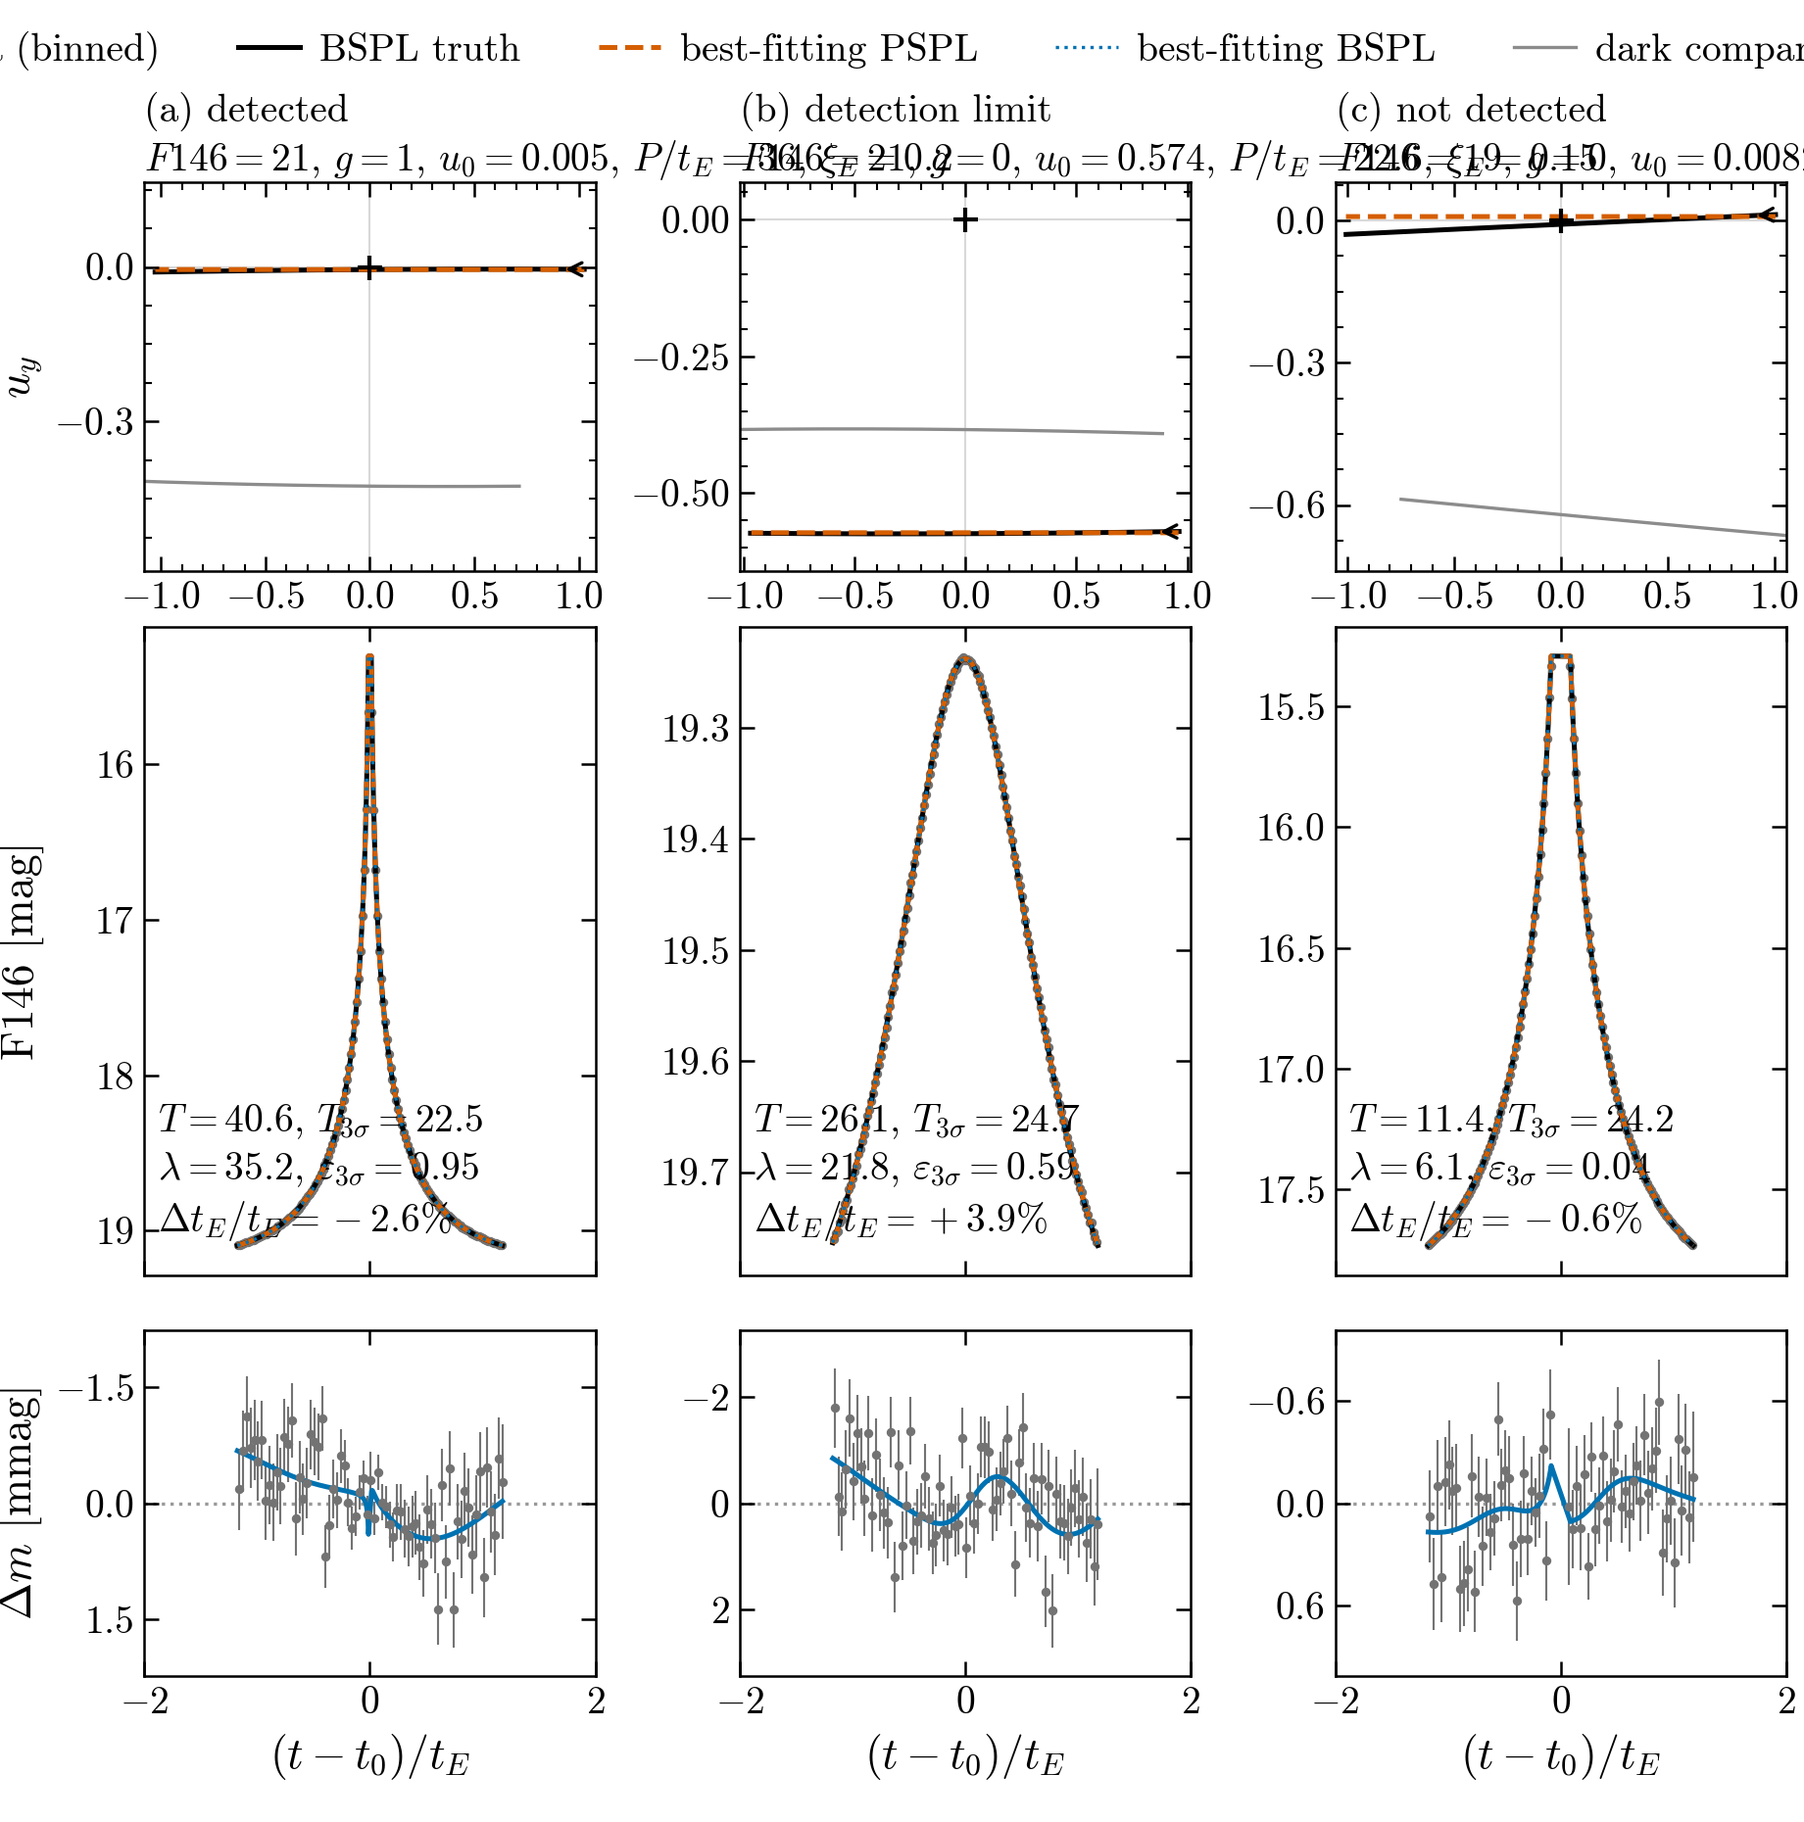
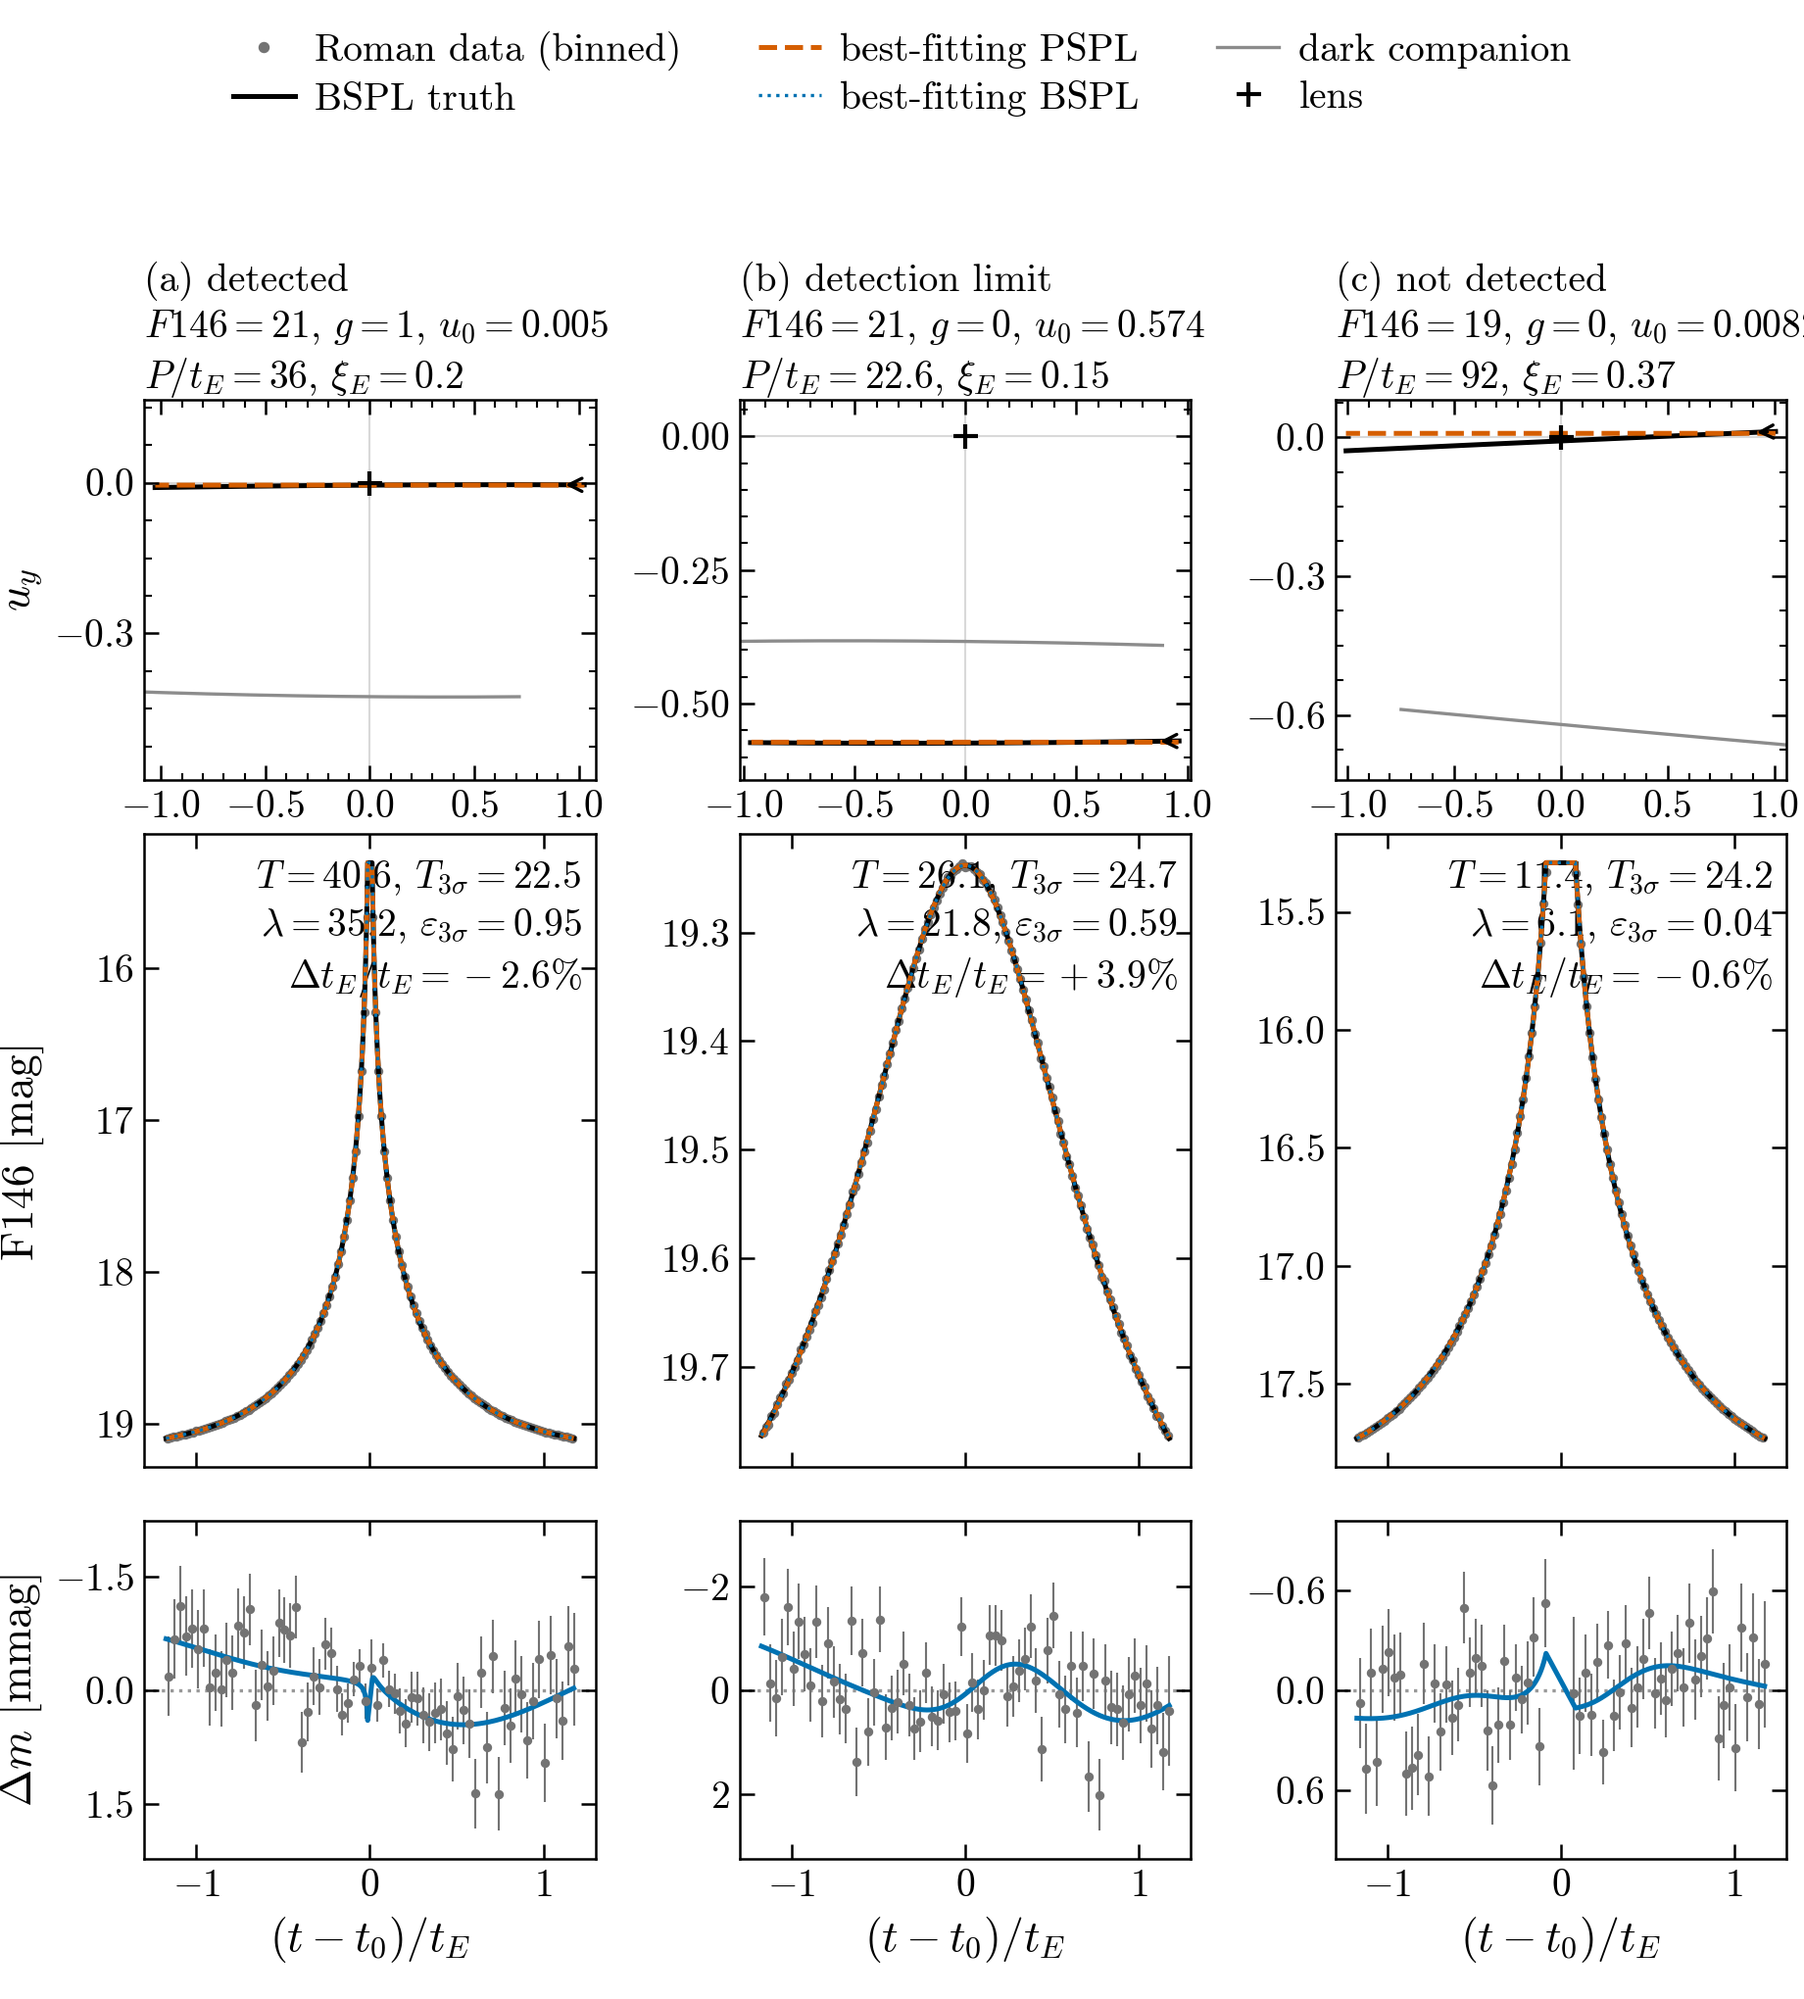
plot_sec6_lightcurve_examples: legend in two rows, parameters in the panel titles on separate lines, statistics in the upper right, time window of the Roman season (1.3 tE)

diff --git a/binary_source/plot_codes/plot_sec6_lightcurve_examples.py b/binary_source/plot_codes/plot_sec6_lightcurve_examples.py
@@ -177,8 +177,9 @@ def column(fig, gs_col, d, a, profile, cell, spec, kh1, status, letter, args):
     xiE = xi_E(cell["P_days"], spec)
     axT.set_title(rf"({letter}) {status}" "\n"
                   rf"$F146={cell['F146']:g}$, $g={cell['blend_ratio']:g}$, "
-                  rf"$u_0={cell['u0']:.3g}$, $P/t_E={cell['P_days'] / tE:.3g}$, "
-                  rf"$\xi_E={xiE:.2g}$", fontsize=FS_ANNOT, loc="left")
+                  rf"$u_0={cell['u0']:.3g}$" "\n"
+                  rf"$P/t_E={cell['P_days'] / tE:.3g}$, $\xi_E={xiE:.2g}$",
+                  fontsize=FS_ANNOT, loc="left", linespacing=1.25)
 
     # light curve
     tb, mb, eb = binned(t[z], m[z], w[z], args.bin_days)
@@ -194,11 +195,11 @@ def column(fig, gs_col, d, a, profile, cell, spec, kh1, status, letter, args):
     axA.tick_params(labelbottom=False)
     T, c3s, lam = float(profile["T_profile"]), cell["c_3sigma"], cell["lambda"]
     eff = float(stats.ncx2.sf(c3s, kh1, lam))
-    axA.text(0.03, 0.05,
+    axA.text(0.97, 0.96,
              rf"$T={T:.1f}$, $T_{{3\sigma}}={c3s:.1f}$" "\n"
              rf"$\lambda={lam:.1f}$, $\varepsilon_{{3\sigma}}={eff:.2f}$" "\n"
              rf"$\Delta t_E/t_E={100 * (tE_fit - tE) / tE:+.1f}\%$",
-             transform=axA.transAxes, ha="left", va="bottom", fontsize=FS_ANNOT,
+             transform=axA.transAxes, ha="right", va="top", fontsize=FS_ANNOT,
              linespacing=1.3)
 
     # residuals relative to the best PSPL, in mmag
@@ -221,7 +222,7 @@ def main():
     ap.add_argument("--run", type=Path, required=True)
     ap.add_argument("--examples", nargs="+", default=list(DEFAULT_EXAMPLES))
     ap.add_argument("--status", nargs="+", default=list(STATUS))
-    ap.add_argument("--zoom-tE", type=float, default=2.0)
+    ap.add_argument("--zoom-tE", type=float, default=1.3)
     ap.add_argument("--traj-tE", type=float, default=1.0)
     ap.add_argument("--bin-days", type=float, default=0.5)
     ap.add_argument("--resid-bin-days", type=float, default=1.0)
@@ -234,9 +235,9 @@ def main():
     apply_paper_style(usetex=not args.no_usetex)
     spec, cells, kh1 = load_cells(args.cells)
     n = len(args.examples)
-    fig = plt.figure(figsize=(fig_width(1.0), 6.2))
+    fig = plt.figure(figsize=(fig_width(1.0), 6.8))
     gs = fig.add_gridspec(3, n, height_ratios=[0.9, 1.5, 0.8], hspace=0.12, wspace=0.32,
-                          left=0.08, right=0.99, bottom=0.08, top=0.90)
+                          left=0.08, right=0.99, bottom=0.07, top=0.80)
     axes = []
     for j, (cid, status) in enumerate(zip(args.examples, args.status)):
         d, a, profile, Tmed, nreal = typical_event(args.run, cid)
@@ -259,7 +260,7 @@ def main():
                Line2D([], [], color="k", marker="+", ms=6, mew=1.0, ls="none")]
     fig.legend(handles, ["Roman data (binned)", "BSPL truth", "best-fitting PSPL",
                          "best-fitting BSPL", "dark companion", "lens"],
-               loc="upper center", ncol=6, frameon=False, fontsize=FS_ANNOT,
+               loc="upper center", ncol=3, frameon=False, fontsize=FS_ANNOT,
                bbox_to_anchor=(0.5, 1.0), handlelength=1.6)
     for f in save_figure(fig, args.out):
         print("saved", f)
